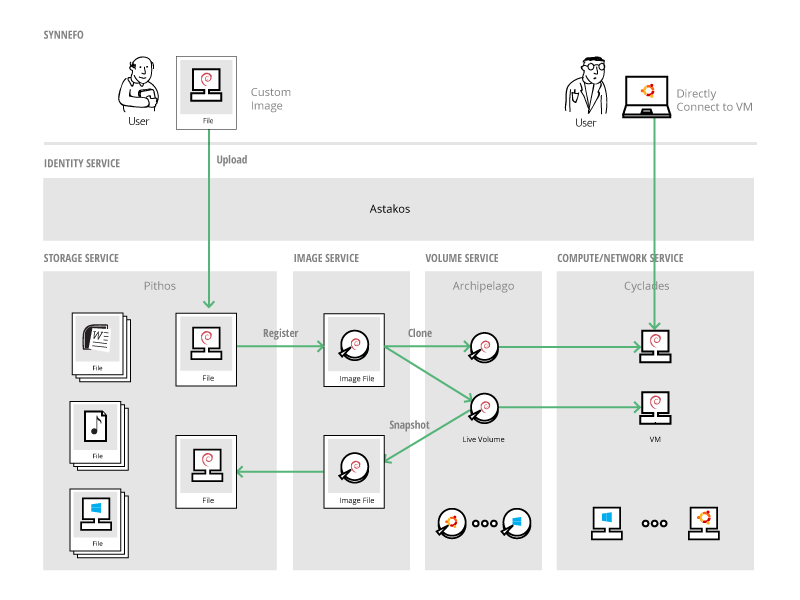
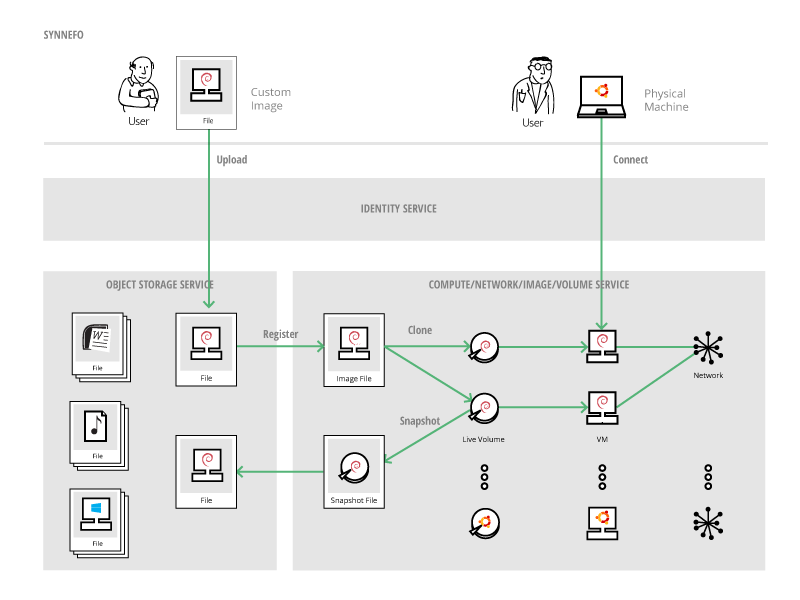
docs: Update index page figures and minor fixes

diff --git a/docs/index.rst b/docs/index.rst
@@ -27,11 +27,12 @@ Synnefo has three main components providing the corresponding services:
 This is an overview of the Synnefo services:
 
 .. image:: images/synnefo-overview.png
+   :width: 70%
    :target: _images/synnefo-overview.png
 
 Synnefo is designed with simplicity, scalability and stability in mind.
-Furthermore, although it can be deployed in small configurations, it was
-initially designed to address large installation problems.
+Although it can be deployed in small configurations, it was initially designed
+to address large-scale installation problems.
 
 All Synnefo components use an intuitive settings mechanism, that adds and
 removes settings dynamically as components are getting added or removed from a
@@ -45,11 +46,12 @@ Synnefo General Architecture
 
 The following figure shows the whole Synnefo stack and how it interacts with
 multiple Ganeti clusters and the storage backends. Synnefo decouples the cloud
-from the cluster layer enhancing robustness, scalability, and ease of
-administration and upgrades without impacting VM stability. As shown in the
-figure below, Synnefo sits on the cloud layer:
+from the cluster layer, enhancing robustness and easing administration and
+upgrades without impacting VM stability. As shown in the figure below, Synnefo
+sits on the cloud layer:
 
 .. image:: images/snf-architecture.png
+   :width: 70%
    :target: _images/snf-architecture.png
 
 Synnefo manages multiple Ganeti clusters and different storage backends
